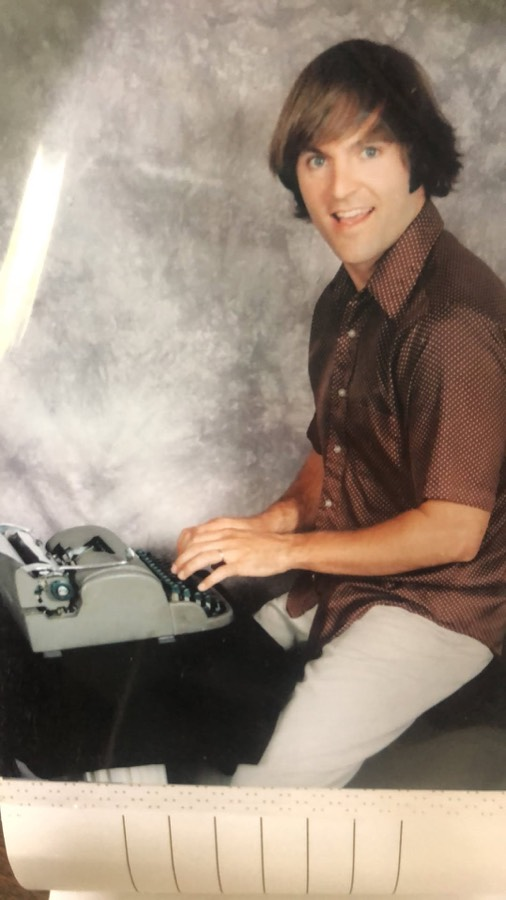
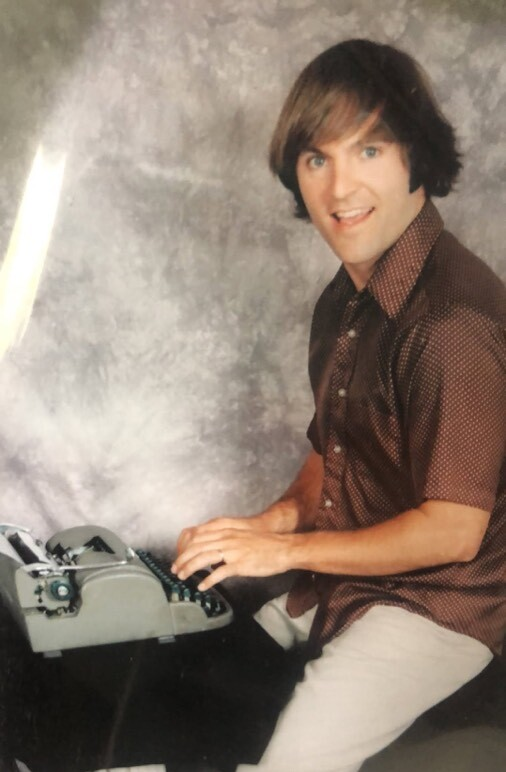
Crop the paper strip off the author photo; fade the notebook page's left edge

diff --git a/_src/site.src.html b/_src/site.src.html
@@ -326,7 +326,7 @@ a{color:inherit}
   content:"";position:absolute;inset:0;
   background:
     linear-gradient(180deg,#fff,rgba(255,255,255,0) 20%,rgba(255,255,255,0) 86%,#fff),
-    linear-gradient(90deg,rgba(255,255,255,0) 64%,#fff);
+    linear-gradient(90deg,#fff,rgba(255,255,255,0) 16%,rgba(255,255,255,0) 64%,#fff);
 }
 /* Stacked to one column there is no slack left over, so the notebook page
    stands down — but the ring still gets a home, sat behind the prose where

diff --git a/index.html b/index.html
@@ -341,7 +341,7 @@ a{color:inherit}
   content:"";position:absolute;inset:0;
   background:
     linear-gradient(180deg,#fff,rgba(255,255,255,0) 20%,rgba(255,255,255,0) 86%,#fff),
-    linear-gradient(90deg,rgba(255,255,255,0) 64%,#fff);
+    linear-gradient(90deg,#fff,rgba(255,255,255,0) 16%,rgba(255,255,255,0) 64%,#fff);
 }
 /* Stacked to one column there is no slack left over, so the notebook page
    stands down — but the ring still gets a home, sat behind the prose where
